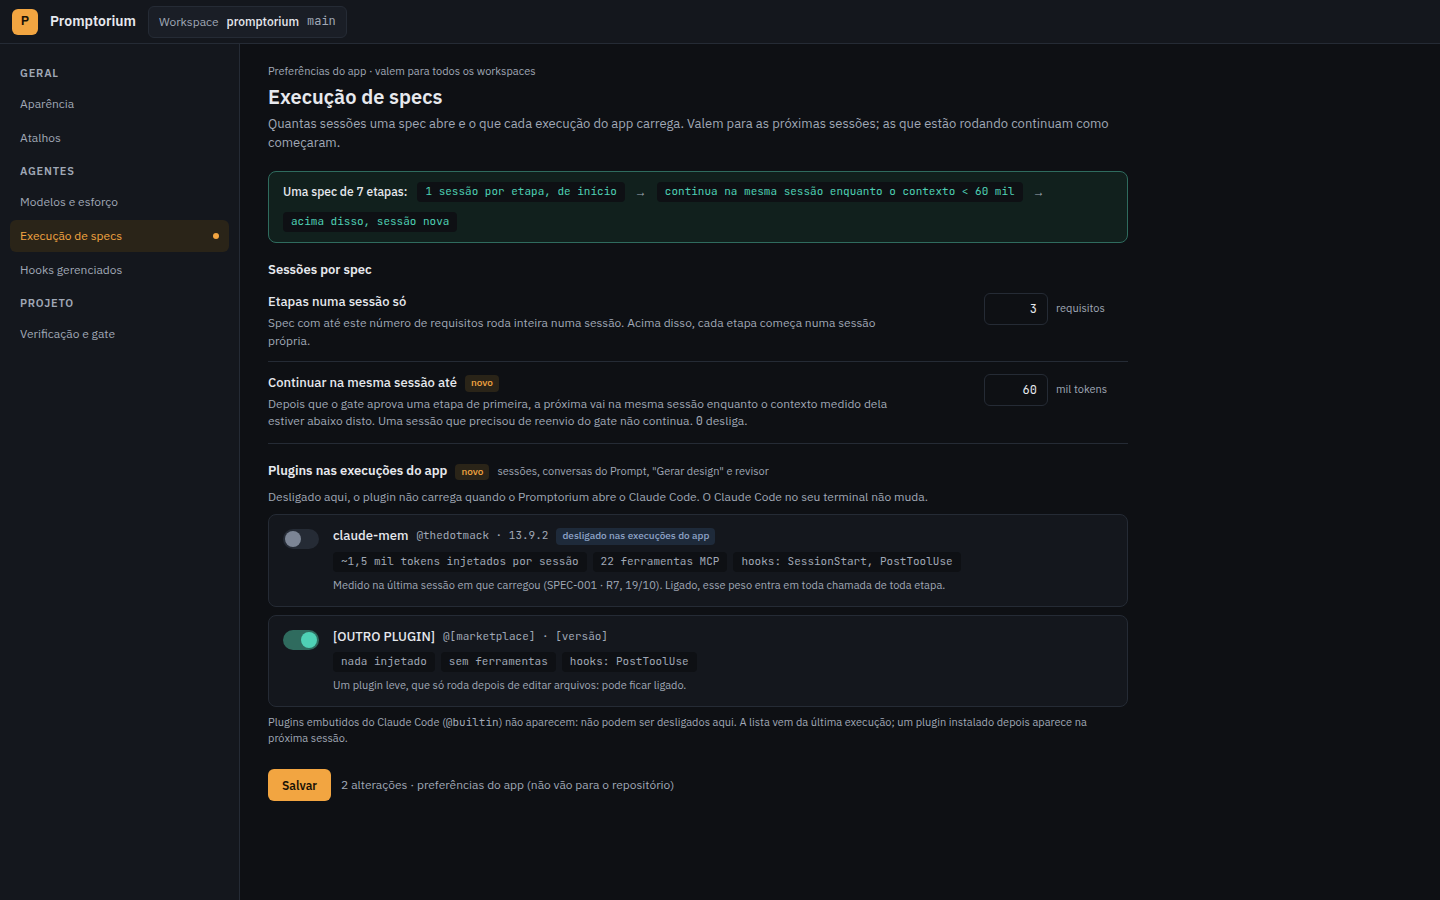
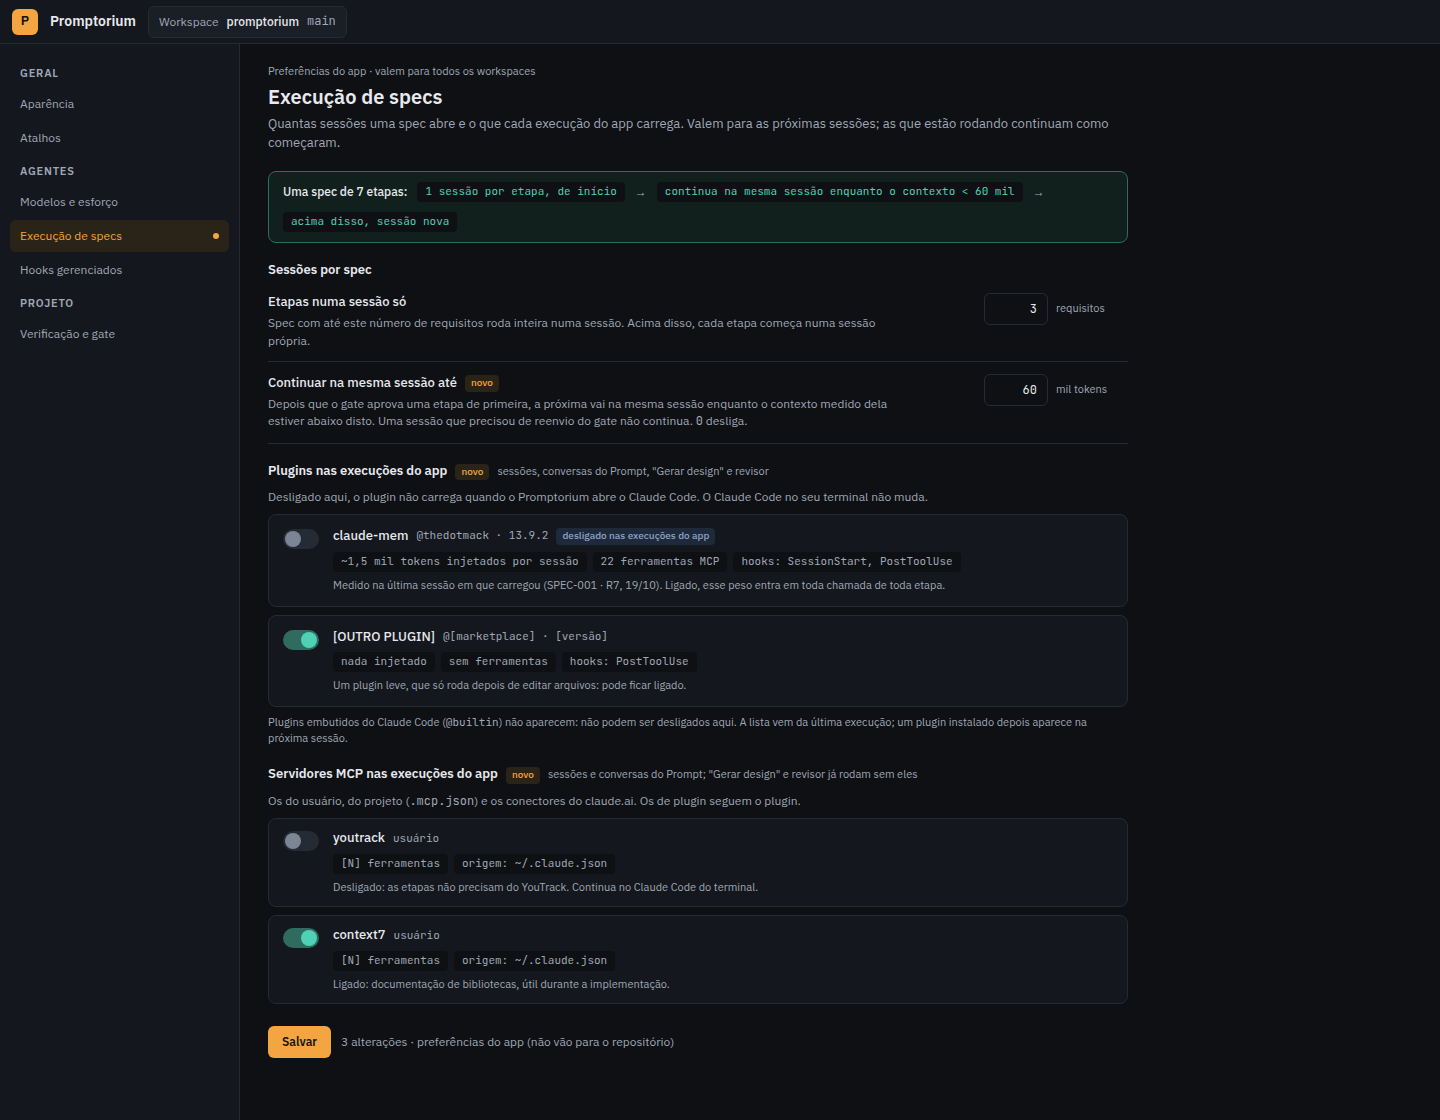
docs(specs): decisões da SPEC-017
Limite padrão de 60 mil tokens para continuar na mesma sessão, o
"Plano pronto" entra no R1 e os servidores MCP do usuário passam a ser
desligáveis junto com os plugins (R2, R5), com a sonda cobrindo o
--strict-mcp-config. O mockup de Configurações ganha a seção de MCP.

diff --git a/docs/specs/SPEC-017-consumo-de-tokens-nas-etapas.md b/docs/specs/SPEC-017-consumo-de-tokens-nas-etapas.md
@@ -17,15 +17,15 @@ Reduzir o consumo de tokens na produção e na execução de specs sem perder a 
 
 Mockups: [Configurações › Execução de specs](../mockups/spec-017/1-configuracoes-execucao.png), [plugins: nenhum visto ainda](../mockups/spec-017/2-plugins-nenhum-visto.png) e [executar sem Design](../mockups/spec-017/3-executar-sem-design.png) (canvas: https://claude.ai/artifact/KvDHT5qfnGC63Z2GzUFwNx). Dados de exemplo; os do claude-mem são os medidos na SPEC-001.
 
-- Fora do escopo: trocar o modelo padrão, mudar o gate (o que ele verifica), o revisor automático e o "Plano pronto" (`plan_ready.dart`, que também diz "rode os testes do projeto").
+- Fora do escopo: trocar o modelo padrão, mudar o gate (o que ele verifica) e o revisor automático.
 
 ## Requisitos
 
-- R1 · O prompt da etapa deve mandar o agente rodar só os testes ligados às etapas da sessão (o `verificar` de cada etapa em `## Etapas` e os `verificar:` dos critérios dessas etapas; sem nenhum, os testes dos arquivos que ele mudou), em primeiro plano e sem laços de espera. Quando o gate do projeto roda testes (`testes:` no `.promptorium/config.yml`), o prompt deve dizer que a suíte completa fica com o gate; sem `testes:`, o agente roda a suíte uma vez, ao final.
-- R2 · As execuções do Claude lançadas pelo app (sessões de etapa e avulsas, conversas do Prompt e execuções somente leitura como "Gerar design" e o revisor) devem desligar os plugins do usuário que ele escolher em Configurações, sem mudar o uso interativo do Claude Code fora do app.
+- R1 · O prompt da etapa deve mandar o agente rodar só os testes ligados às etapas da sessão (o `verificar` de cada etapa em `## Etapas` e os `verificar:` dos critérios dessas etapas; sem nenhum, os testes dos arquivos que ele mudou), em primeiro plano e sem laços de espera. Quando o gate do projeto roda testes (`testes:` no `.promptorium/config.yml`), o prompt deve dizer que a suíte completa fica com o gate; sem `testes:`, o agente roda a suíte uma vez, ao final. O prompt do "Plano pronto" (`implementPrompt`) segue a mesma regra.
+- R2 · As execuções do Claude lançadas pelo app (sessões de etapa e avulsas, conversas do Prompt e execuções somente leitura como "Gerar design" e o revisor) devem desligar os plugins e os servidores MCP do usuário que ele escolher em Configurações, sem mudar o uso interativo do Claude Code fora do app.
 - R3 · "Gerar design" deve escrever uma subseção "O que já existe" com os arquivos, classes e funções a reaproveitar, e cada etapa de `## Etapas` deve citar ao menos um arquivo. Ao executar no Quadro uma spec sem Design, com mais etapas que `singleSessionMaxSteps`, o sistema deve avisar o custo e oferecer "Gerar design" ou "Executar mesmo assim".
 - R4 · Depois que o gate aprova as etapas de uma sessão e a spec avança sozinha, o sistema deve mandar a próxima etapa **na mesma sessão** quando o contexto atual dela estiver abaixo do limite configurado, a sessão estiver viva e ela não tiver precisado de reenvio do gate; senão, abre uma sessão nova, como hoje.
-- R5 · Configurações deve expor o limite de contexto para continuar na mesma sessão (padrão 60 mil tokens; 0 desliga) e a lista de plugins das execuções do app, e cada decisão de continuar ou abrir sessão deve ficar registrada na timeline da sessão com o contexto medido e o limite.
+- R5 · Configurações deve expor o limite de contexto para continuar na mesma sessão (padrão 60 mil tokens; 0 desliga) e as listas de plugins e de servidores MCP das execuções do app, e cada decisão de continuar ou abrir sessão deve ficar registrada na timeline da sessão com o contexto medido e o limite.
 
 ## Design
 
@@ -45,12 +45,16 @@ Mockups: [Configurações › Execução de specs](../mockups/spec-017/1-configu
 - sem comandos: "rode só os testes dos arquivos que você mudou ou criou";
 - e então "a suíte completa (`$testCommand`) roda no gate depois do commit; não a rode" ou, sem `testes:`, "rode a suíte uma vez, ao final".
 
+O "Plano pronto" não tem gate nem `## Etapas`: `implementPrompt` troca "rode os testes do projeto" por "rode os testes ligados ao que mudou durante o trabalho e a suíte do projeto uma vez, ao final (`$testCommand` quando houver), em primeiro plano e sem laços de espera". Ele passa a receber o `testCommand` do projeto.
+
 Este repositório passa a ter `testes: flutter analyze && flutter test` no `.promptorium/config.yml`, para que o gate rode a suíte (hoje nenhum lado garante a suíte verde ao fim da etapa).
 
-### R2 · Plugins desligados nas execuções do app
+### R2 · Plugins e servidores MCP desligados nas execuções do app
 Nova preferência `agent.disabledPlugins` (lista de ids `nome@marketplace`). Um gerador único de settings (`lib/core/claude/app_settings_file.dart`) escreve o JSON com `enabledPlugins: {id: false}` e, quando houver, os hooks gerenciados de hoje; `_prepareHooks` passa a usá-lo e conversas e `runReadOnlyClaude` passam `--settings` também. Sem plugin desligado e sem hooks, nenhum arquivo é criado (comportamento atual). Os plugins conhecidos vêm do último `system/init` recebido (gravado em `agent.knownPlugins`), sem os de `source` `@builtin`.
 
-**Sonda antes de implementar** (`docs/pesquisa/`): confirmar na versão instalada do CLI que `enabledPlugins: false` num `--settings` (precedência "flag", acima do usuário) remove do `system/init` os `plugins`, as ferramentas `mcp__plugin_<nome>_*` e os hooks `SessionStart` do plugin. Se não remover, R2 cai para `--strict-mcp-config` + desligar só os hooks, e a spec volta para revisão.
+**Servidores MCP.** Nova preferência `agent.disabledMcpServers` (nomes). Os servidores conhecidos vêm de `system/init.mcp_servers` com `source` `user`, `project` ou `claudeai` (os de plugin seguem o plugin, os do app não aparecem). As execuções somente leitura já rodam com `--strict-mcp-config`. Sessões e conversas, quando houver servidor desligado, passam `--strict-mcp-config` e um `--mcp-config` com a definição dos que ficam ligados (lida por `lib/features/mcp/mcp_cli.dart`, que já consulta `claude mcp list/get`) mais os do próprio app. Sem servidor desligado, nada muda.
+
+**Sonda antes de implementar** (`docs/pesquisa/`): confirmar na versão instalada do CLI que `enabledPlugins: false` num `--settings` (precedência "flag", acima do usuário) remove do `system/init` os `plugins`, as ferramentas `mcp__plugin_<nome>_*` e os hooks `SessionStart` do plugin. Se não remover, R2 cai para `--strict-mcp-config` + desligar só os hooks, e a spec volta para revisão. A mesma sonda confirma, para os MCP, que `--strict-mcp-config` com um `--mcp-config` parcial mantém os servidores listados (inclusive os conectores `claudeai`) e os dos plugins ligados, e tira só os ausentes; e de onde ler a definição de cada servidor para repassá-la.
 
 ### R3 · Design que poupa exploração
 `designPrompt` passa a pedir, antes das subseções por requisito, "### O que já existe": arquivos, classes e funções a reaproveitar, com caminho; e `designSchema` exige `arquivos` não vazio por etapa (`minItems: 1`). No Quadro, "Executar" (`run_spec_dialog.dart`) mostra o aviso quando `doc.design == null` e `steps.length > singleSessionMaxSteps`: "Sem Design, cada etapa recebe a spec inteira e explora o código do zero", com "Gerar design" e "Executar mesmo assim". O diálogo de aprovação continua aceitando `design: dispensado` (spec trivial); o aviso aparece só na execução.
@@ -78,10 +82,12 @@ Os testes marcados "(a criar)" fazem parte da implementação.
 
 - [ ] [R1] Com `testes:` configurado e `verificar` nas etapas, o prompt manda rodar só esses comandos, diz que a suíte fica com o gate e não contém "rode os testes do projeto". verificar: `flutter test test/features/board/spec_runner_test.dart`
 - [ ] [R1] Sem `testes:` e sem `verificar`, o prompt manda rodar os testes dos arquivos mudados e a suíte uma vez, ao final; um `verificar:` igual ao `testCommand` não entra na lista focada. verificar: `flutter test test/features/board/spec_runner_test.dart`
+- [ ] [R1] O prompt do "Plano pronto" não contém "rode os testes do projeto", manda rodar os testes ligados ao que mudou e a suíte uma vez, ao final, e cita o `testCommand` quando houver. verificar: `flutter test test/features/prompt/plan_ready_test.dart`
 - [ ] [R1] Este repositório define `testes: flutter analyze && flutter test` e o gate de uma etapa roda esse comando. verificar: `flutter test test/features/board/step_gate_test.dart`
 - [ ] [R2] A sonda está registrada em `docs/pesquisa/` com a versão do CLI e o resultado de `enabledPlugins: false` via `--settings` (plugins, ferramentas MCP e hooks do plugin). verificar: manual (ler o documento)
 - [ ] [R2] Com um plugin desligado, o arquivo de settings tem `enabledPlugins: {id: false}` e é passado em sessões, conversas e execuções somente leitura; sem plugin desligado e sem hooks, nenhum `--settings` é passado. verificar: `flutter test test/core/claude/app_settings_file_test.dart` (a criar)
-- [ ] [R2] Os plugins conhecidos vêm do último `system/init`, sem os `@builtin`. verificar: `flutter test test/core/claude/app_settings_file_test.dart` (a criar)
+- [ ] [R2] Com um servidor MCP desligado, sessões e conversas recebem `--strict-mcp-config` e um `--mcp-config` só com os servidores ligados e os do app; sem servidor desligado, nenhum desses argumentos muda. verificar: `flutter test test/core/claude/app_settings_file_test.dart` (a criar)
+- [ ] [R2] Os plugins e os servidores MCP conhecidos vêm do último `system/init`, sem os plugins `@builtin` e sem os servidores de plugin e do app. verificar: `flutter test test/core/claude/app_settings_file_test.dart` (a criar)
 - [ ] [R3] `designPrompt` pede "O que já existe" e `designSchema` exige ao menos um arquivo por etapa. verificar: `flutter test test/features/specs/spec_design_test.dart` (a criar)
 - [ ] [R3] Executar uma spec sem Design e com mais etapas que `singleSessionMaxSteps` mostra o aviso; "Executar mesmo assim" executa e "Gerar design" abre o design; com Design, ou com poucas etapas, não há aviso. verificar: `flutter test test/features/board/board_screen_test.dart`
 - [ ] [R4] Com o contexto abaixo do limite, gate aprovado na primeira tentativa e sessão viva, a próxima etapa vai por `send` na mesma sessão, com `specContinuePrompt` (sem a spec inteira), e `sessions.steps` passa a ter as duas etapas. verificar: `flutter test test/features/board/spec_runner_test.dart`
@@ -91,8 +97,10 @@ Os testes marcados "(a criar)" fazem parte da implementação.
 - [ ] [R1–R5] O código novo passa na análise estática e a suíte existente continua passando. verificar: `flutter analyze && flutter test`
 - [ ] [R1–R5] Executar no app uma spec de 5 a 7 etapas com Design, claude-mem desligado e o limite padrão relê do cache bem menos que a linha de base da SPEC-001 (3,2 milhões de tokens em 7 etapas), medido pelo `usage` gravado em `session_events`. verificar: manual (executar e somar o `usage` das mensagens do assistente)
 
-## Perguntas em aberto
+## Decisões
 
-- O limite padrão de 60 mil tokens é bom? Na SPEC-001 as etapas terminaram entre 40 e 60 mil; 60 mil faria a maioria das etapas pequenas continuar e cortaria as grandes.
-- O "Plano pronto" (`plan_ready.dart`) também manda rodar os testes do projeto. Entra numa spec própria?
-- Desligar plugins deveria valer também para os servidores MCP do usuário (`youtrack`, `context7`), via `--strict-mcp-config`? A spec deixa de fora: eles não injetam contexto, só ferramentas.
+Respondidas em 2026-10-22:
+
+- O limite padrão para continuar na mesma sessão é 60 mil tokens: na SPEC-001 as etapas terminaram entre 40 e 60 mil, então as pequenas continuam e as pesadas abrem sessão nova.
+- O "Plano pronto" entra nesta spec (R1).
+- Os servidores MCP do usuário também podem ser desligados, na mesma tela dos plugins (R2, R5).
